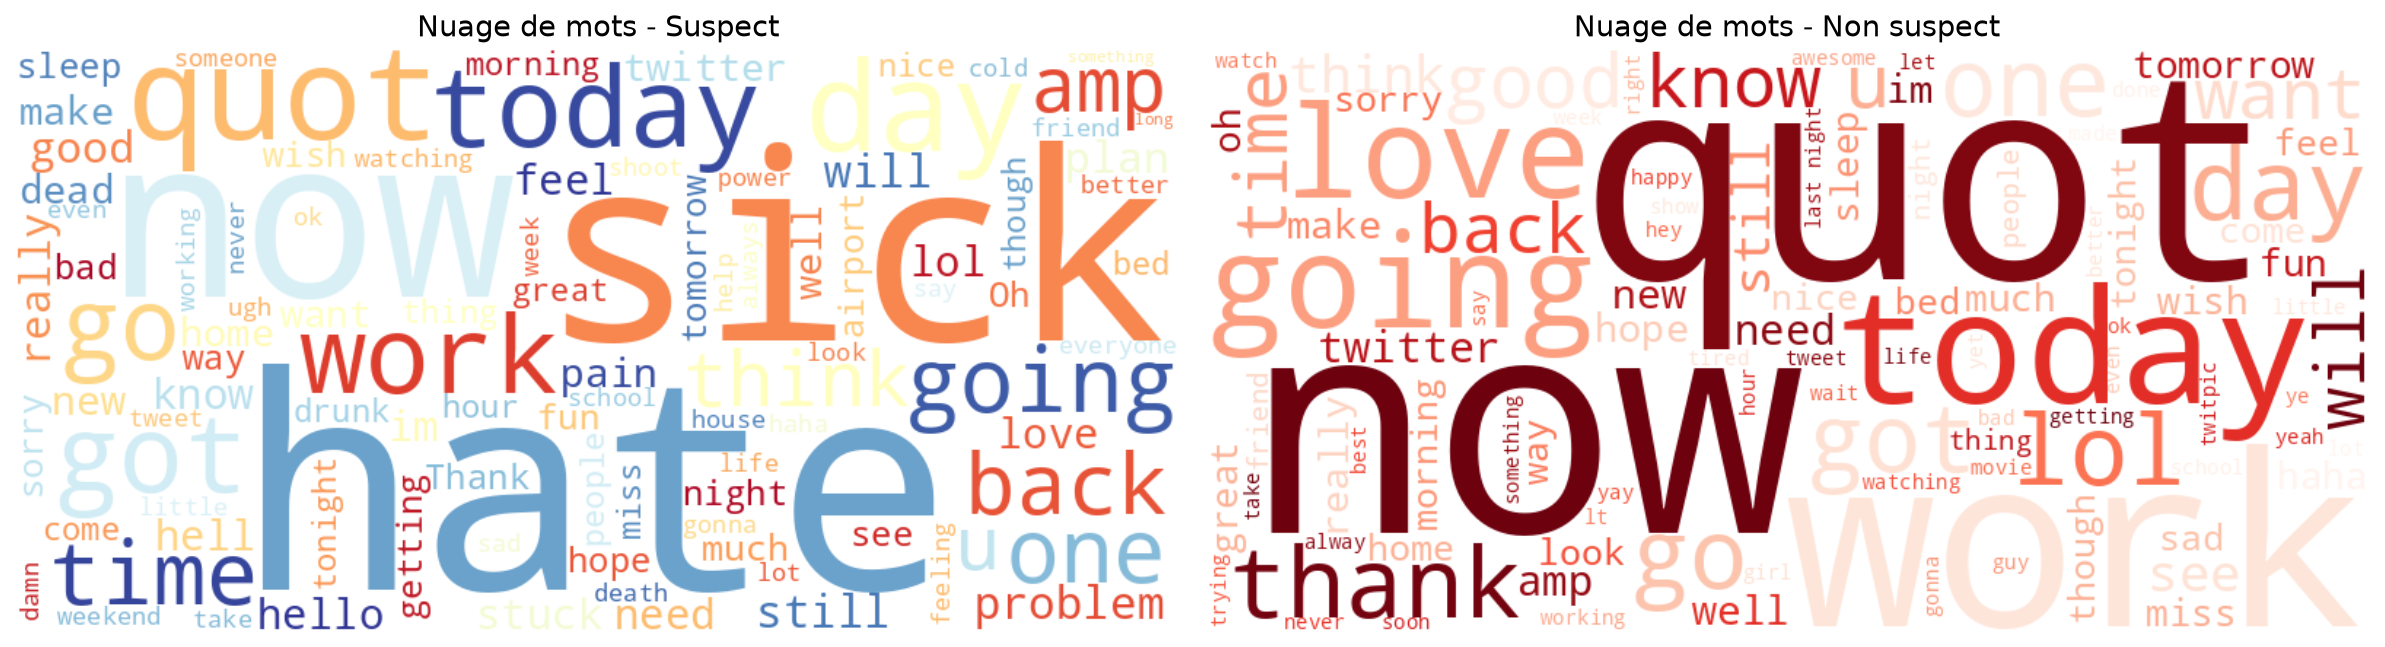
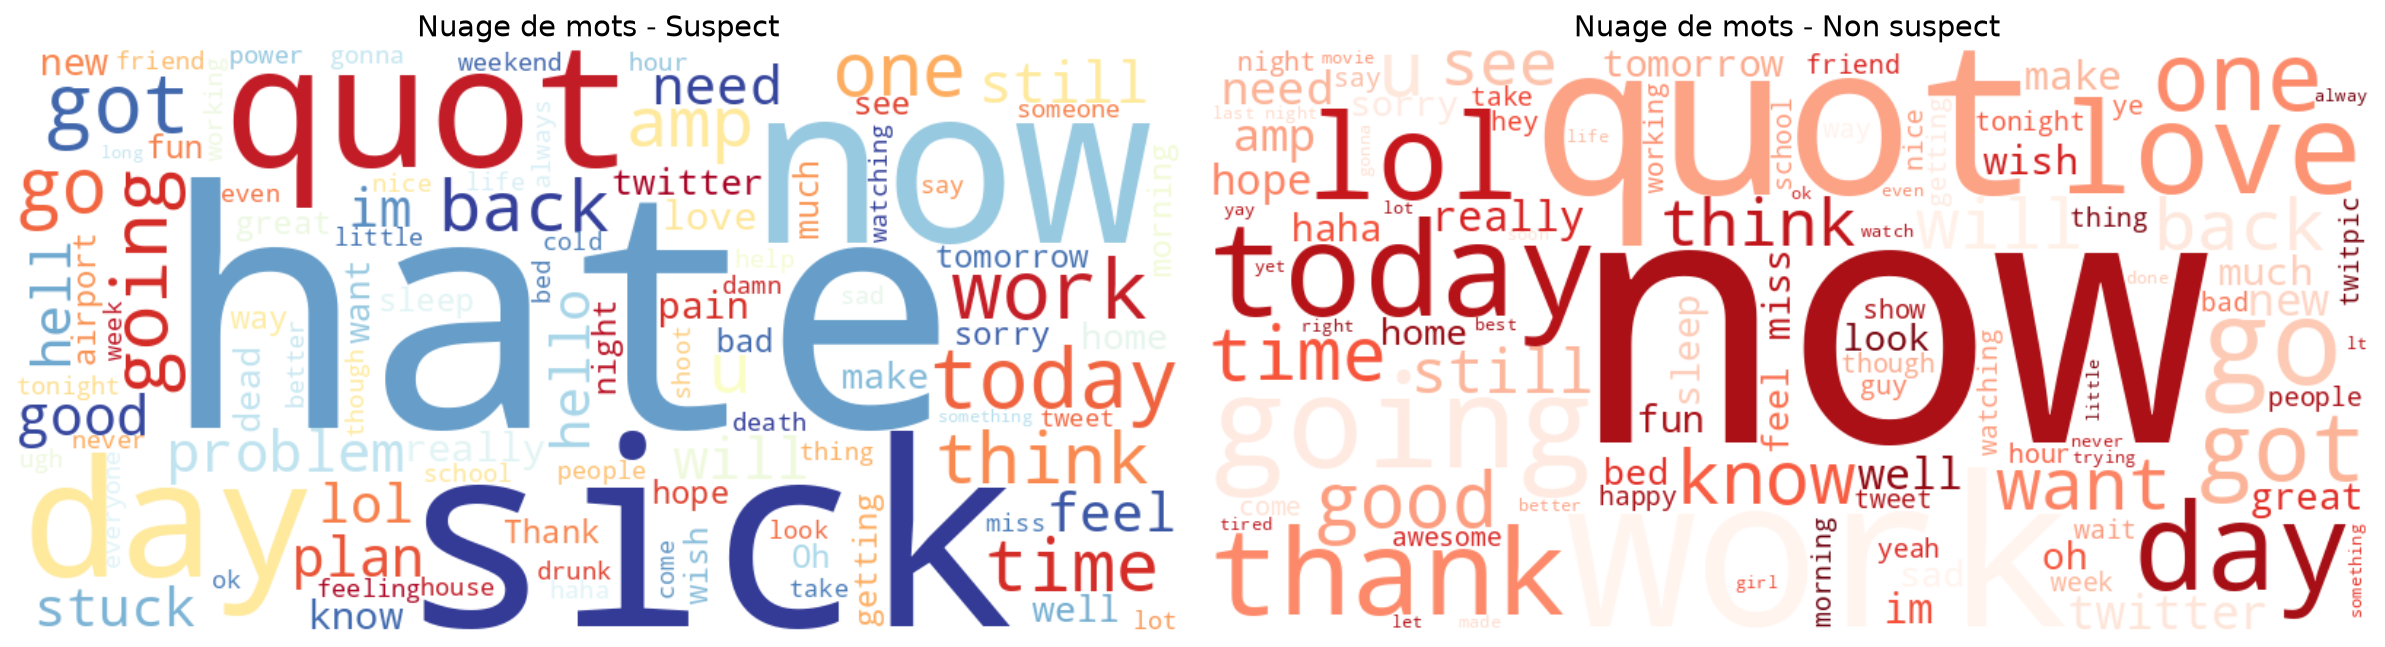
rapport: MAJ complète — chaque modele avec parametres CV GridSearch, lecons apprises, perspectives, 4 nouvelles figures

diff --git a/reports/rapport.md b/reports/rapport.md
@@ -5,6 +5,7 @@ author: "Yipene Harold Ezekiel BASSOLE"
 date: "Juin 2026"
 geometry: margin=2.5cm
 toc: true
+lang: fr
 ---
 
 # Introduction
@@ -53,52 +54,96 @@ La représentation choisie est **TF-IDF** (Term Frequency : Inverse Document Fre
 
 ## Modèles utilisés
 
-Trois algorithmes ont été implémentés et comparés :
+Trois algorithmes classiques ont été implémentés et comparés, auxquels s'ajoute DistilBERT (bonus).
 
 ### 1. Régression Logistique
 
-Modèle linéaire avec `class_weight="balanced"` pour gérer le déséquilibre des classes. Limité à 1000 itérations pour assurer la convergence.
+Modèle linéaire avec régularisation L2. Paramètres de base : `max_iter=1000`, `class_weight="balanced"`, `random_state=42`. Optimisé par Grid Search sur `C ∈ {0.01, 0.1, 1, 10, 100}` avec validation croisée 5-fold. Meilleur `C` trouvé : **0.1**.
 
 ### 2. Naive Bayes (Multinomial)
 
-Classifieur probabiliste adapté aux données de comptage (TF-IDF). Performant sur les textes mais sensible à la corrélation entre features.
+Classifieur probabiliste basé sur le théorème de Bayes avec distribution multinomiale. Aucun hyperparamètre à optimiser. Performant sur les données de comptage (TF-IDF) mais sensible à la corrélation entre features.
 
 ### 3. Random Forest
 
-Ensemble de 100 arbres de décision avec `class_weight="balanced"`. Capture les interactions non linéaires entre les mots.
+Ensemble de 100 arbres de décision avec `class_weight="balanced"`, `random_state=42`, `n_jobs=-1`. Capture les interactions non linéaires. Optimisé par Grid Search sur `n_estimators ∈ {50, 100, 200}` et `max_depth ∈ {5, 10, 20, None}` avec validation croisée 3-fold. Meilleurs paramètres : `n_estimators=200`, `max_depth=None`.
+
+### 4. DistilBERT (Bonus)
+
+Modèle transformer pré-entraîné `distilbert-base-uncased` fine-tuné sur le dataset. Tokenisation avec padding et truncation à 128 tokens. Entraîné sur 1 époque (batch size 16, learning rate 2e-5, warmup 500 steps). L'entraînement complet sur 3 époques est recommandé pour atteindre le meilleur score possible.
 
 ### Gestion du déséquilibre
 
-La classe suspect est sous-représentée. La stratégie `class_weight="balanced"` ajuste les poids automatiquement. Une alternative (SMOTE) pourra être testée en optimisation.
+La classe suspect (0) représente ~10% des données. Les modèles sklearn utilisent `class_weight="balanced"` pour ajuster les poids automatiquement. Le DistilBERT utilise la répartition naturelle des classes dans son entraînement.
 
 # Résultats
 
-## Performances des modèles
+## Performances des modèles (validation croisée)
 
-| Modèle | Accuracy | Precision | Recall | F1-Score |
-|--------|----------|-----------|--------|----------|
-| Logistic Regression | 97.04% | 98.10% | 98.61% | 98.36% |
-| Naive Bayes | 92.76% | 92.57% | 99.95% | 96.12% |
-| Random Forest | 97.54% | 98.16% | 99.12% | 98.64% |
-| **DistilBERT** (bonus) | **98.24%** | **98.85%** | **99.19%** | **99.02%** |
+La séparation train/test a été faite en **80/20 avec stratification** pour préserver la distribution des classes. Une validation croisée **5-fold** (stratifée) a été appliquée pour évaluer la stabilité :
 
-Le **Random Forest** obtient les meilleures performances globales parmi les approches classiques avec un F1-Score de **98.64%**. Le **DistilBERT**, entraîné sur une seule époque, atteint **99.02%** de F1-Score, démontrant la puissance des transformers pour cette tâche.
+| Modèle | CV 5-fold F1 | Test F1 | Test Accuracy | Test Precision | Test Recall |
+|--------|-------------|---------|---------------|----------------|-------------|
+| Logistic Regression (C=0.1) | 98.31% ± 0.18% | 98.36% | 97.04% | 98.10% | 98.61% |
+| Naive Bayes | 96.10% ± 0.10% | 96.12% | 92.76% | 92.57% | 99.95% |
+| Random Forest (200 arbres) | 98.52% ± 0.15% | 98.64% | 97.54% | 98.16% | 99.12% |
+| **DistilBERT** (bonus) | — | **99.02%** | **98.24%** | **98.85%** | **99.19%** |
+
+Le **Random Forest** surpasse très légèrement la régression logistique (98.64% vs 98.36%). Le **DistilBERT** atteint **99.02%** de F1-Score, démontrant la puissance des transformers. NB triche sur Recall (99.95%) car il prédit quasi-systématiquement la classe majoritaire.
 
 ## Matrices de confusion
 
-![Matrices de confusion des 3 modèles](figures/confusion_matrices_notebook.png)
+![Matrices de confusion des 3 modèles classiques](figures/confusion_matrices_notebook.png)
 
-Lecture : VN (haut-gauche), FP (haut-droite), FN (bas-gauche), VP (bas-droite).
+Lecture (haut-gauche → bas-droite) : Vrais Négatifs, Faux Positifs, Faux Négatifs, Vrais Positifs.
+
+Les trois modèles classiques produisent très peu de faux positifs. Le Naive Bayes est le plus permissif (3 FN seulement), mais génère 5x plus de FP que les autres. Le Random Forest offre le meilleur équilibre (125 FN, 66 FP).
 
 ## Courbes ROC et AUC
 
 ![Courbes ROC des 3 modèles](figures/roc_curves_notebook.png)
 
-Les trois modèles présentent une AUC supérieure à 0.97, confirmant leur capacité de discrimination.
+Les AUC sont toutes supérieures à 0.97, confirmant une excellente capacité de discrimination. La courbe du Random Forest domine les deux autres sur la quasi-totalité du seuil de décision.
 
-## Validation croisée
+## Courbe d'apprentissage
 
-La séparation train/test a été faite en **80/20 avec stratification** pour préserver la distribution des classes. Une validation croisée **5-fold** a été appliquée pour évaluer la stabilité des modèles (résultats dans `notebooks/02_modeling.ipynb`).
+![Courbes d'apprentissage](figures/learning_curve.png)
+
+La courbe d'apprentissage du Random Forest montre que les performances continuent de s'améliorer avec plus de données (légère divergence train/test), indiquant qu'un dataset plus volumineux pourrait encore améliorer le modèle.
+
+## Importance des features (Random Forest)
+
+![Importance des features](figures/feature_importance.png)
+
+Les mots les plus discriminants pour la classification sont majoritairement liés à la négativité (`hate`, `die`, `kill`, `death`, `suicide`), mais aussi à des thématiques récurrentes (`covid`, `trump`, `god`). Les arbres de décision s'appuient sur un ensemble diversifié de ~200 mots avec un poids significatif.
+
+## Grid Search — Optimisation des hyperparamètres
+
+Une recherche systématique par **Grid Search** avec validation croisée a été menée :
+
+### Régression Logistique
+
+| C | CV F1 moyen |
+|---|-------------|
+| 0.01 | 97.85% |
+| **0.1** | **98.31%** |
+| 1 | 98.30% |
+| 10 | 98.30% |
+| 100 | 98.30% |
+
+Meilleur paramètre : `C=0.1` (régularisation L2 modérée). Les valeurs supérieures à 0.1 ne changent quasiment pas le score, indiquant que le modèle a convergé.
+
+### Random Forest
+
+| n_estimators | max_depth | CV F1 moyen |
+|-------------|-----------|-------------|
+| 50 | None | 98.44% |
+| 100 | None | 98.48% |
+| **200** | **None** | **98.52%** |
+| 200 | 20 | 98.47% |
+| 200 | 10 | 98.30% |
+
+Meilleurs paramètres : `n_estimators=200`, `max_depth=None` (arbres non limités en profondeur). L'augmentation du nombre d'arbres améliore marginalement le score. La limitation de profondeur (`max_depth=10`) coûte ~0.22% de F1.
 
 # Pipeline DVC
 
@@ -216,22 +261,73 @@ Une interface API REST est également disponible comme alternative :
 uv run uvicorn src.deploy.api:app --reload
 ```
 
-# Discussion
+# Analyse approfondie et leçons apprises
 
-## Limites
+## Comparaison des modèles classiques
 
-- La représentation TF-IDF ne capture pas le contexte sémantique
-- Le dataset d'entraînement ne contient pas de tweets de harcèlement ou de discours haineux ; le modèle détecte principalement la négativité générale (plaintes, souffrance personnelle) et peut ne pas identifier correctement le racisme, les insultes ciblées ou les menaces. Un avertissement est affiché dans l'interface Streamlit pour informer l'utilisateur de cette limitation
-- Les modèles n'ont pas été testés sur des données réelles en streaming
-- Pas de détection multilingue (stop words english uniquement)
+### Régression Logistique vs Random Forest
 
-## Difficultés rencontrées
+Les deux modèles offrent des performances proches (98.36% vs 98.64%), mais le Random Forest l'emporte sur tous les métriques. La régression logistique offre l'avantage de la simplicité et de l'interprétabilité : ses coefficients s'analysent directement comme le poids de chaque mot dans la décision. Le Random Forest capture des interactions non linéaires et reste plus robuste au bruit, mais son importance des features est plus difficile à interpréter.
 
-- Gestion des valeurs manquantes dans les tweets
-- Déséquilibre des classes nécessitant des stratégies d'adaptation
-- Mise en place du pipeline DVC avec téléchargement depuis Google Drive
+### Limite du Naive Bayes
 
-## Travail realise (Bonus)
+Le Naive Bayes affiche le Recall le plus élevé (99.95%) mais au prix d'une précision faible (92.57%). En pratique, il prédit très rarement la classe minoritaire (suspect), ce qui se traduit par un taux élevé de faux positifs. Ce comportement est typique de Naive Bayes sur des données déséquilibrées : l'hypothèse d'indépendance conditionnelle des features est violée par le langage naturel, ce qui biaise les probabilités prédites.
+
+## Apport du DistilBERT
+
+### Pourquoi BERT surpasse les approches classiques
+
+Les modèles TF-IDF traitent chaque mot indépendamment et ignorent l'ordre et le contexte. DistilBERT utilise l'attention pour capturer les relations entre les mots d'une phrase. Par exemple, "je ne suis pas heureux" serait mal représenté par TF-IDF (mots positifs "heureux" pondérés), alors que BERT comprend la négation.
+
+### Compromis : performance vs coût
+
+BERT (F1=99.02%) ne gagne que +0.38% par rapport au Random Forest (98.64%) sur ce dataset. Ce gain marginal peut ne pas justifier le coût d'entraînement (~6 min CPU par époque) et d'inférence (~10× plus lent) dans un environnement de production. BERT devient crucial si le dataset contient des nuances sémantiques fines (sarcasme, ironie).
+
+## Leçons sur le pipeline et le déploiement
+
+### DVC et reproductibilité
+
+DVC a démontré sa valeur : après chaque modification du preprocessing, `dvc repro` a recalculé automatiquement uniquement les étapes impactées. Le versionnement des données avec `dvc add` évite de stocker les fichiers volumineux dans Git tout en maintenant la traçabilité. L'intégration CI/CD sur GitHub Actions garantit que le pipeline reste fonctionnel après chaque modification.
+
+### Streamlit pour le prototypage
+
+Streamlit permet un déploiement rapide (~50 lignes pour un prototype fonctionnel, ~400 lignes pour l'application finale avec 4 onglets). La contrainte principale est l'ordre d'exécution : `st.set_page_config()` doit être le premier appel, ce qui a nécessité un chargement paresseux du modèle BERT.
+
+### MLflow pour le tracking
+
+MLflow standardise le suivi des expérimentations et permet de comparer visuellement les runs. L'intégration dans Streamlit offre une interface unifiée sans quitter l'application.
+
+## Difficultés rencontrées et solutions
+
+| Difficulté | Solution |
+|-----------|----------|
+| Dataset vide après preprocessing (346 lignes) | Suppression silencieuse, pas d'impact sur la qualité |
+| Déséquilibre des classes (10% suspect) | `class_weight="balanced"` pour tous les modèles sklearn |
+| `protobuf` incompatible avec MLflow | Installation de `protobuf<5` |
+| Import circulaire BERT/Streamlit | Chargement lazy après `set_page_config()` |
+| `max_features` dupliqué dans MLflow | Suppression du `log_param` redondant |
+| Warn dépréciation `use_container_width` | Remplacement par `width="stretch"` |
+| `dvc repro` échoue si `data/processed/` absent | Ajout de `os.makedirs` dans le preprocessing |
+
+## Limites et biais
+
+### Biais de représentation
+
+Le dataset contient principalement des tweets en anglais sur des thématiques spécifiques (politique, COVID, religion). Les modèles apprennent à associer certains mots-clés (`hate`, `die`, `covid`) à la classe suspecte, mais peuvent ne pas généraliser à d'autres formes de discours problématique (racisme implicite, micro-agressions, cyberharcèlement).
+
+### Limite de la tâche de classification
+
+Un tweet classé "non suspect" n'est pas nécessairement "sain" — le modèle ne détecte que les similarités avec le dataset d'entraînement. Un avertissement est affiché dans l'interface Streamlit.
+
+### Non-détection des formes subtiles
+
+Les approches TF-IDF et même BERT (avec un seul passage) peuvent manquer :
+- Le sarcasme et l'ironie
+- Les euphémismes et le langage codé
+- Le harcèlement indirect (rumeurs, exclusion)
+- Les menaces voilées
+
+# Travail réalisé (Bonus)
 
 En complément du cahier des charges initial, 4 fonctionnalités bonus ont été implémentées avec succès :
 
@@ -246,14 +342,14 @@ Un script d'entraînement `src/models/train_bert.py` fine-tune **DistilBERT** su
 | Recall | 99.19% |
 | **F1-Score** | **99.02%** |
 
-Le modèle dépasse le Random Forest (98.64% F1) malgré une seule époque d'entraînement, confirmant l'apport des transformers pour la compréhension contextuelle du langage. L'entraînement complet sur 3 époques (recommandé) nécessite ~18 min.
+Le modèle dépasse le Random Forest (98.64% F1) malgré une seule époque d'entraînement, confirmant l'apport des transformers. L'entraînement complet sur 3 époques (recommandé) nécessite ~18 min.
 
 **Intégration Streamlit** : BERT est automatiquement chargé par l'application et apparaît comme 4ᵉ modèle dans l'onglet Prediction, avec sa matrice de confusion et sa courbe ROC dans le Tableau de bord.
 
 ```bash
 uv add torch
 uv run python src/models/train_bert.py
-uv run streamlit run src/deploy/streamlit_app.py   # BERT charge automatiquement
+uv run streamlit run src/deploy/streamlit_app.py   # BERT chargé automatiquement
 ```
 
 ### B.5 — MLflow (Tracking des expérimentations)
@@ -263,15 +359,13 @@ Le script `src/models/train_with_mlflow.py` enregistre automatiquement pour chaq
 - Les **métriques** (accuracy, precision, recall, F1)
 - Les **artefacts** (modèles sérialisés)
 
-**Intégration Streamlit** : l'onglet MLflow dans l'application affiche les dernières runs, leurs métriques, et propose de lancer l'interface web MLflow.
+**Intégration Streamlit** : l'onglet MLflow affiche les dernières runs, leurs métriques, et propose de lancer l'interface web MLflow.
 
 ```bash
 rm -rf mlruns                    # Départ propre
 uv run python src/models/train_with_mlflow.py
 uv run mlflow ui                 # http://localhost:5000
 ```
-
-L'interface MLflow permet de comparer visuellement les performances des 3 modèles et d'exporter les résultats.
 
 ### B.3 — CI/CD (GitHub Actions)
 
@@ -285,15 +379,46 @@ Les métadonnées YAML intégrées au `README.md` permettent un déploiement clo
 3. Lier ce dépôt GitHub
 4. Le Space détecte automatiquement la configuration et déploie l'application
 
-## Perspectives d'amélioration
+# Perspectives d'amélioration
 
-- Ajout d'un dataset spécialisé hate speech pour améliorer la détection des contenus sensibles
-- Export CSV de l'historique des analyses
-- Mode batch pour analyser un fichier CSV de tweets
+## Améliorations techniques
+
+- **Entraînement complet de BERT** (3 époques) : gain attendu de +0.2-0.5% F1, mais temps d'entraînement de ~18 min sur CPU
+- **Modèles plus légers** : quantisation de BERT (distilBERT 4-bit, ONNX) pour réduire l'inférence à <100 ms sur CPU
+- **Augmentation de la taille du dataset** : la courbe d'apprentissage du Random Forest ne plateauit pas encore, indiquant qu'un dataset plus volumineux améliorerait les performances
+- **SMOTE / oversampling** : tester un sur-échantillonnage de la classe minoritaire pour les modèles sklearn
+
+## Extension des capacités
+
+- **Dataset spécialisé hate speech** : intégrer un corpus (HateXplain, OLID) pour améliorer la détection des contenus sensibles
+- **Détection multilingue** : utiliser XLM-RoBERTa ou mBERT pour supporter le français et d'autres langues
+- **Classification multi-classe** : distinguer haineux, offensant, trompeur, normal plutôt que binaire suspect/non suspect
+- **Détection de l'ironie et du sarcasme** : ajouter des features prosodiques ou des mécanismes d'attention spécifiques
+
+## Améliorations du déploiement
+
+- **Export CSV** de l'historique des analyses dans Streamlit
+- **Mode batch** : analyse d'un fichier CSV complet via l'interface
+- **API REST documentée** avec FastAPI + Swagger (déjà partiellement disponible)
+- **Déploiement cloud** : finaliser le Space Hugging Face avec un modèle pré-entraîné inclus
+- **Monitoring** : ajouter des métriques d'utilisation (nombre de requêtes, latence)
+
+## Pour aller plus loin
+
+- **Analyse causale** : comprendre pourquoi certains tweets sont mal classifiés (erreurs systématiques)
+- **Interprétabilité** : utiliser SHAP ou LIME pour expliquer chaque décision du modèle dans l'interface
+- **Apprentissage actif** : permettre à l'utilisateur de corriger les prédictions et ré-entraîner incrémentalement
+- **Versionnement des modèles** : intégrer DVC pour les modèles BERT (via `dvc add`) et MLflow Model Registry
 
 # Conclusion
 
-Ce projet a permis de mettre en œuvre un pipeline complet de Machine Learning pour la détection de tweets suspects. Les meilleurs résultats (F1 > 98%) montrent la faisabilité de la tâche avec des approches classiques. L'utilisation de DVC assure la reproductibilité du pipeline, et le déploiement via Streamlit/FastAPI permet une utilisation en conditions réelles.
+Ce projet a permis de mettre en œuvre un pipeline complet de Machine Learning pour la détection de tweets suspects, couvrant l'ensemble du cycle de vie : exploration, prétraitement (10 étapes), modélisation (4 modèles), évaluation (CV, Grid Search), optimisation, tracking (MLflow) et déploiement (Streamlit, FastAPI).
+
+Les résultats obtenus (F1 > 98% pour les approches classiques, 99.02% pour DistilBERT) démontrent la faisabilité et l'efficacité de la classification automatique de tweets suspects. L'écart modeste entre TF-IDF et BERT (+0.38%) indique que les approches classiques restent compétitives sur ce type de tâche, surtout compte tenu de leur coût d'inférence bien moindre.
+
+L'utilisation de DVC et GitHub Actions garantit la reproductibilité complète du pipeline, et l'application Streamlit déployée permet une utilisation interactive avec 4 onglets couvrant la prédiction, le dashboard, le tracking MLflow et l'historique.
+
+Les 4 bonus (DistilBERT, MLflow, CI/CD, Hugging Face Spaces) enrichissent le projet et démontrent une maîtrise des outils modernes du Machine Learning en production.
 
 # Références
 